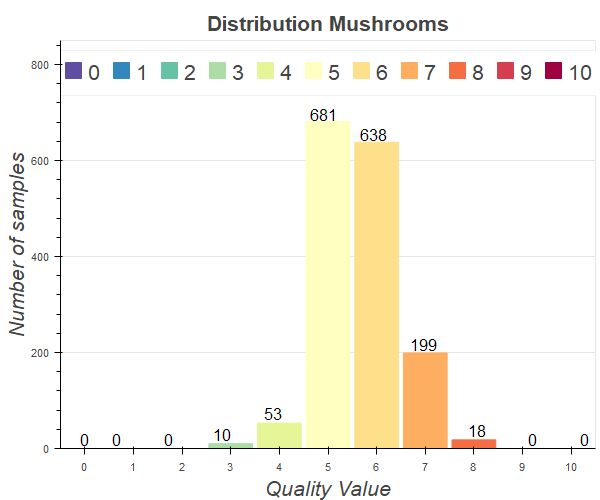
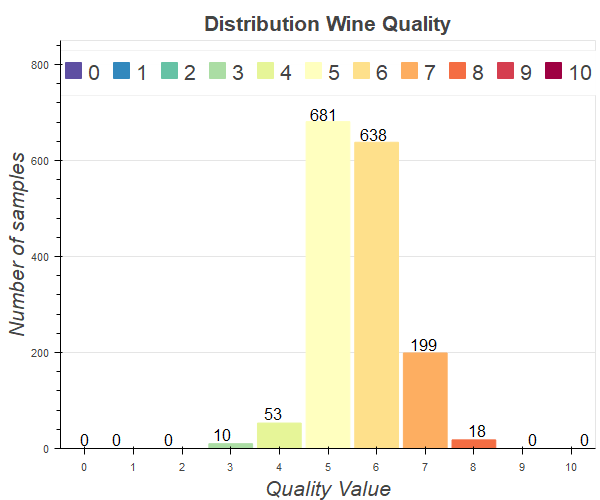
changed wine fig title

Changed region(s): [[0.33, 0.03, 0.75, 0.09]]

diff --git a/coding/E0WineClassification.py b/coding/E0WineClassification.py
@@ -37,7 +37,7 @@ for elem in samples:
         values[int(elem)]=values[int(elem)]+1
 
 source = ColumnDataSource(data=dict(classes=classes, counts=values, color=Spectral11))
-p = figure(x_range=classes, plot_height=500, title="Distribution Mushrooms", x_axis_label=('Quality Value'),y_axis_label=('Number of samples'), toolbar_location=None)
+p = figure(x_range=classes, plot_height=500, title="Distribution Wine Quality", x_axis_label=('Quality Value'),y_axis_label=('Number of samples'), toolbar_location=None)
 p.vbar(x='classes', top='counts', width=0.9, color='color', legend="classes", source=source)
 
 p.xgrid.grid_line_color = "white"
